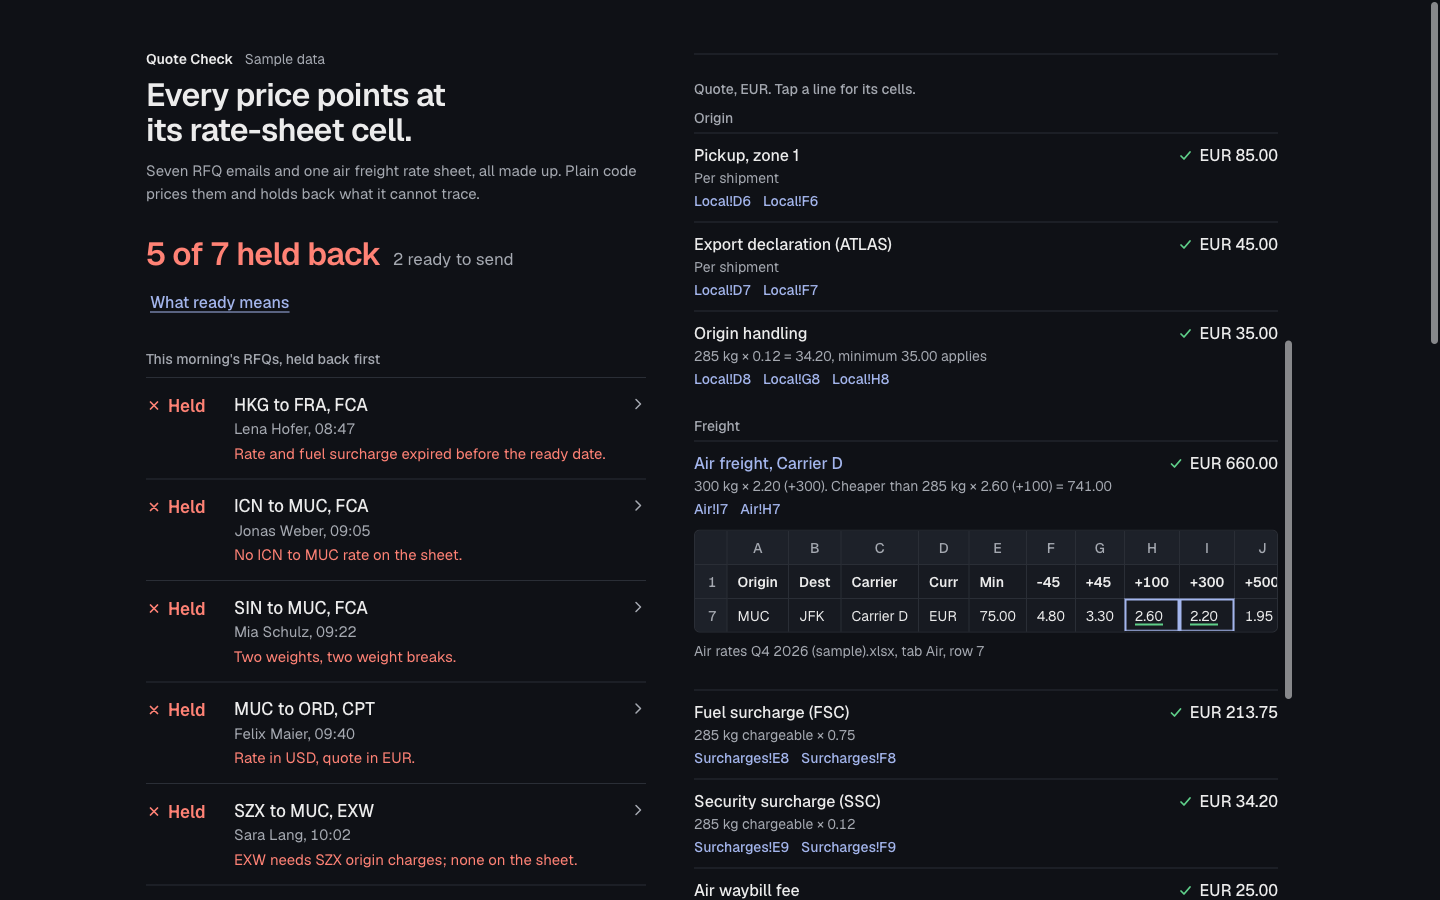
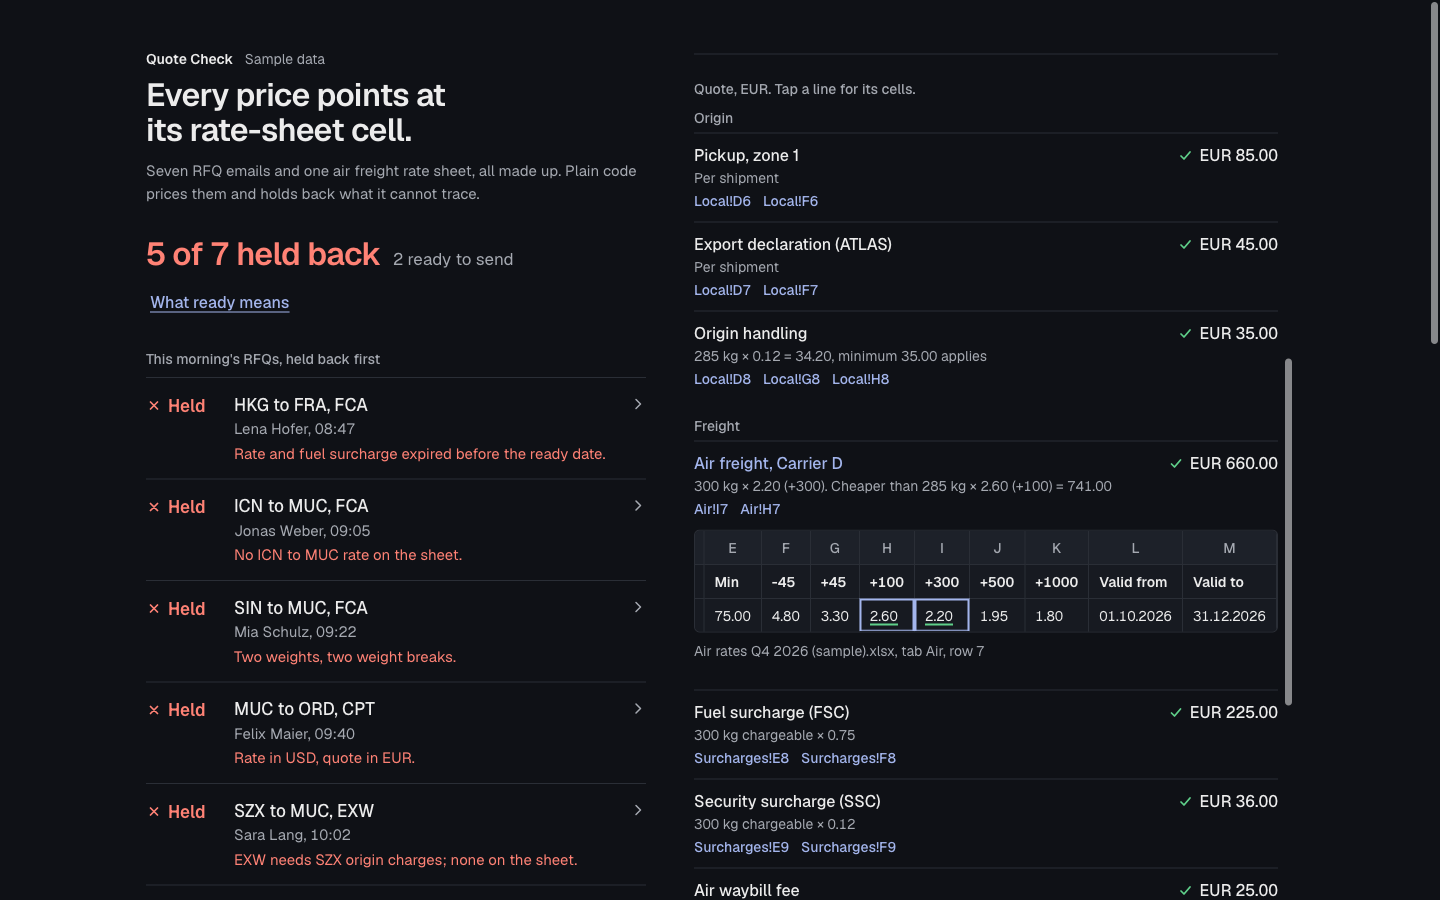
Charge surcharges on the break weight, FCA origin handling on the buyer, phone cell view, wording fixes

Changed region(s): [[0.5, 0.6222, 0.875, 0.7156], [0.875, 0.7778, 0.9062, 0.8089], [0.875, 0.3733, 0.9062, 0.4044]]

diff --git a/quote.js b/quote.js
@@ -26,7 +26,7 @@ const SEA_ONLY = ["FAS", "FOB", "CFR", "CIF"];
 const NEEDS = {
   buyer: {
     EXW: ["O:PUP", "O:ECC", "O:OHC", "FRT", "D:DHC", "D:ICC"],
-    FCA: ["FRT", "D:DHC", "D:ICC"],
+    FCA: ["O:OHC", "FRT", "D:DHC", "D:ICC"],
     CPT: ["D:DHC", "D:ICC"],
     CIP: ["D:DHC", "D:ICC"],
     DAP: ["D:ICC"],
@@ -69,20 +69,27 @@ export function chargeable(grossKg, volKg) {
 }
 
 /** The weight break for a chargeable weight, then the cheaper of that and any higher break charged at its threshold. */
-export function priceFreight(sh, row, kg) {
+export function priceFreight(sh, row, kg, perKg = 0) {
   const air = sh.tabs.Air;
   const rate = (b) => cents(air[row][b.col]);
   let at = BREAKS[0];
   for (const b of BREAKS) if (kg >= b.from) at = b;
   const base = { brk: at, kg, rate: rate(at), amount: Math.round(rate(at) * kg) };
   let best = base;
+  // A higher break raises the chargeable weight, so surcharges charged on chargeable weight (perKg) rise with it.
+  const allIn = (x) => x.amount + Math.round(perKg * x.kg);
   for (const b of BREAKS) {
     if (b.from <= at.from) continue;
-    const amount = Math.round(rate(b) * b.from);
-    if (amount < best.amount) best = { brk: b, kg: b.from, rate: rate(b), amount };
+    const next = { brk: b, kg: b.from, rate: rate(b), amount: Math.round(rate(b) * b.from) };
+    if (allIn(next) < allIn(best)) best = next;
   }
   const min = cents(air[row][4]);
   return { base, best, min, usesMin: best.amount < min, amount: Math.max(best.amount, min) };
+}
+
+/** The carrier's per-kg surcharges that are charged on chargeable weight, in cents. */
+export function followsKg(sh, carrier) {
+  return sh.tabs.Surcharges.reduce((sum, x, i) => (i > 0 && x[0] === carrier && x[5] !== "Gross" ? sum + cents(x[4]) : sum), 0);
 }
 
 function localRow(sh, station, side, code, postcode) {
@@ -191,7 +198,7 @@ export function quoteRfq(rfq, sh) {
 
   let needs = [];
   if (term && SEA_ONLY.includes(term)) {
-    hold("incoterm", `${term} is a sea and inland waterway rule in Incoterms 2020. For air freight the matching rule is usually FCA${term === "CIF" ? " or CIP" : term === "CFR" ? " or CPT" : ""}. Ask which one is meant.`);
+    hold("incoterm", `${term} is a sea and inland waterway rule in Incoterms 2020. For air freight the matching rule is ${{ FAS: "FCA", FOB: "FCA", CFR: "CPT", CIF: "CIP" }[term]}. Ask which one is meant.`);
   } else if (term && origin && dest && !role) {
     hold("incoterm", `Neither or both airports are in ${home} (Terms!B5), so the sheet cannot tell whether the customer is the buyer or the seller.`, homeCell ? [homeCell] : []);
   } else if (term && role) {
@@ -215,8 +222,11 @@ export function quoteRfq(rfq, sh) {
       const row = air[airRow];
       const carrier = row[2];
       const c = (col) => cellAt(sh, "Air", airRow, col);
+      let chargedKg = kg;
       if (kg != null) {
-        const p = priceFreight(sh, airRow, kg);
+        const p = priceFreight(sh, airRow, kg, followsKg(sh, carrier));
+        chargedKg = p.best.kg;
+        if (chargedKg !== kg) weight.chargedKg = chargedKg;
         const cells = [c(p.best.brk.col)];
         let calc = `${kgFmt(kg)} kg × ${fmt(p.best.rate)} (${p.best.brk.label})`;
         if (p.best !== p.base) {
@@ -249,7 +259,7 @@ export function quoteRfq(rfq, sh) {
         const s = sur[r];
         const sc = (col) => cellAt(sh, "Surcharges", r, col);
         const onGross = s[5] === "Gross";
-        const baseKg = onGross ? (grossList.length === 1 ? grossList[0] : null) : kg;
+        const baseKg = onGross ? (grossList.length === 1 ? grossList[0] : null) : chargedKg;
         const line = { side: "Freight", code, label: `${s[2]} (${code})`, currency: s[3], curCell: sc(3), cells: [sc(4), sc(5)], state: "pass" };
         if (baseKg == null) Object.assign(line, { calc: "", amount: null, state: "none", note: "Waits for one weight" });
         else Object.assign(line, { calc: `${kgFmt(baseKg)} kg ${onGross ? "gross" : "chargeable"} × ${s[4]}`, amount: Math.round(cents(s[4]) * baseKg) });
@@ -313,7 +323,7 @@ export function quoteRfq(rfq, sh) {
   // One weight, one break.
   if (weightBlocked && needs.includes("FRT") && airRow != null) {
     const parts = options.map((o) => {
-      const p = priceFreight(sh, airRow, o.chargeKg);
+      const p = priceFreight(sh, airRow, o.chargeKg, followsKg(sh, air[airRow][2]));
       return { o, p };
     });
     const brks = [...new Set(parts.map((x) => x.p.best.brk.label))];

diff --git a/app.js b/app.js
@@ -123,6 +123,7 @@ function weightBlock(q) {
   if (w.chargeKg != null) {
     const note = w.wins === "volume" ? "volumetric is higher" : w.wins === "gross" ? "gross is higher" : "the higher of the two";
     line("Chargeable weight", `${kgFmt(w.chargeKg)} kg, ${note}, rounded up to the next 0.5 kg`, "strong");
+    if (w.chargedKg) line("Charged as", `${kgFmt(w.chargedKg)} kg chargeable, the next weight break, because it costs less`, "strong");
   } else if (w.gross.length > 1) line("Chargeable weight", "Not settled: the email gives more than one weight", "nf");
   return box;
 }
@@ -159,6 +160,10 @@ function quoteTable(q) {
             const g = miniGrid(l.cells);
             g.classList.add("enter");
             item.append(g);
+            for (const sc of g.querySelectorAll(".grid-scroll")) {
+              const hit = sc.querySelector("td.hit");
+              if (hit) sc.scrollLeft = Math.max(0, hit.offsetLeft - 56);
+            }
             requestAnimationFrame(() => requestAnimationFrame(() => g.classList.add("drawn")));
           }
         });
@@ -198,7 +203,7 @@ function draftReply(q) {
   const lines = q.lines.map((l) => `${l.label}: ${l.currency} ${fmt(l.amount)}`);
   return `${first ? `Hi ${first}` : "Hello"},
 
-thanks for your request. Our offer for ${q.origin} to ${q.dest}, ${q.term}, ${kgFmt(q.weight.chargeKg)} kg chargeable:
+thanks for your request. Our offer for ${q.origin} to ${q.dest}, ${q.term}, ${kgFmt(q.weight.chargedKg || q.weight.chargeKg)} kg chargeable${q.weight.chargedKg ? ` (${kgFmt(q.weight.chargeKg)} kg charged at the next weight break, which costs less)` : ""}:
 
 ${lines.join("\n")}
 Total: ${q.currency} ${fmt(q.total)}
@@ -347,7 +352,7 @@ function render(list, { fresh = false, focusId = null } = {}) {
     const val = el("span", "val");
     const lane = q.origin && q.dest ? `${q.origin} to ${q.dest}` : "Lane not found";
     val.append(el("b", null, `${lane}${q.term ? `, ${q.term}` : ""}`), `${q.rfq.from.split(",")[0]}, ${q.rfq.time}`);
-    if (q.ready) val.append(el("span", "meta", `${q.currency} ${fmt(q.total)}, ${kgFmt(q.weight.chargeKg)} kg chargeable`));
+    if (q.ready) val.append(el("span", "meta", `${q.currency} ${fmt(q.total)}, ${kgFmt(q.weight.chargeKg)} kg ${q.weight.chargedKg ? `charged as ${kgFmt(q.weight.chargedKg)} kg` : "chargeable"}`));
     else val.append(el("span", "meta st-fail", shortReason(q)));
     return rowItem(`r-${q.rfq.id}-${i}`, [st, val], () => detail(q));
   }));
@@ -359,7 +364,7 @@ function render(list, { fresh = false, focusId = null } = {}) {
   let k = 0;
   if (focusId) k = Math.max(0, order.findIndex((i) => list[i].id === focusId));
   const li = rows.children[k];
-  if (li) {
+  if (li && (wide.matches || focusId)) {
     show(li._entry, false);
     if (focusId) li.scrollIntoView({ block: "start", behavior: calm() ? "auto" : "smooth" });
   }

diff --git a/quote.test.js b/quote.test.js
@@ -27,7 +27,7 @@ test("volumetric weight: 6 x 80 x 60 x 75 cm / 6000 = 360 kg beats 312 kg gross"
   assert.equal(w.volKg, 360);
   assert.equal(w.chargeKg, 360);
   assert.equal(w.wins, "volume");
-  assert.equal(fmt(res.garching.total), "1,506.20");
+  assert.equal(fmt(res.garching.total), "1,542.20");
 });
 
 test("every line on a ready quote points at sheet cells", () => {
@@ -50,7 +50,10 @@ test("a lower charge at a higher weight break is used, and both cells are shown"
   assert.equal(res.aschheim.weight.chargeKg, 285);
   const ohc = res.aschheim.lines.find((l) => l.code === "OHC");
   assert.equal(ohc.amount, 3500); // 285 x 0.12 = 34.20, minimum 35.00
-  assert.equal(fmt(res.aschheim.total), "1,097.95");
+  assert.equal(res.aschheim.weight.chargedKg, 300);
+  const fsc = res.aschheim.lines.find((l) => l.code === "FSC");
+  assert.equal(fsc.amount, 22500); // fuel follows the chargeable weight: 300 kg x 0.75
+  assert.equal(fmt(res.aschheim.total), "1,111.00");
 });
 
 test("an expired rate and an expired fuel surcharge are both named with their cells", () => {
@@ -144,4 +147,16 @@ test("every field read from the email points at its exact text", () => {
     const spans = [f.ready, f.currency, f.door, f.pickup, f.volume, ...f.pieces, ...f.weights, ...(f.incoterm?.marks || []), ...(f.lane.origin?.marks || []), ...(f.lane.dest?.marks || [])].filter(Boolean);
     for (const s of spans) assert.equal(f.text.slice(s.index, s.index + s.text.length), s.text, `${r.id}: ${s.text}`);
   }
+});
+
+test("FCA puts origin handling at the departure airport on the buyer", () => {
+  const ohc = res.garching.lines.find((l) => l.code === "OHC");
+  assert.equal(ohc.side, "Origin");
+  assert.equal(ohc.amount, 3600); // 360 kg x 0.10
+  assert.deepEqual(ohc.cells.map((c) => c.ref), ["Local!D5", "Local!G5"]);
+});
+
+test("the sea-only hint names the matching any-mode rule", () => {
+  const q = quoteRfq(rfq("RFQ PVG-MUC", "CIF Munich, from Shanghai, 2 cartons 50x50x50 cm, 60 kg, ready 20 Nov"), sheet);
+  assert.match(q.holds.map((h) => h.text).join(" "), /the matching rule is CIP\./);
 });

diff --git a/sheet.js b/sheet.js
@@ -32,8 +32,8 @@ export const sheet = {
       ["Carrier C", "SSC", "Security surcharge", "EUR", "0.15", "Gross", "01.08.2026", "31.12.2026"],
       ["Carrier D", "FSC", "Fuel surcharge", "EUR", "0.75", "Chargeable", "01.11.2026", "30.11.2026"],
       ["Carrier D", "SSC", "Security surcharge", "EUR", "0.12", "Chargeable", "01.10.2026", "31.12.2026"],
-      ["Carrier E", "FSC", "Fuel surcharge", "EUR", "0.80", "Chargeable", "01.11.2026", "30.11.2026"],
-      ["Carrier E", "SSC", "Security surcharge", "EUR", "0.15", "Chargeable", "01.10.2026", "31.12.2026"],
+      ["Carrier E", "FSC", "Fuel surcharge", "EUR", "0.80", "Gross", "01.11.2026", "30.11.2026"],
+      ["Carrier E", "SSC", "Security surcharge", "EUR", "0.15", "Gross", "01.10.2026", "31.12.2026"],
     ],
     Local: [
       ["Station", "Side", "Code", "Charge", "Curr", "Per shipment", "Per kg", "Min", "PLZ"],
@@ -49,6 +49,9 @@ export const sheet = {
       ["MUC", "Destination", "DEL", "Delivery, zone 1", "EUR", "95.00", "", "", "80, 81, 85"],
       ["FRA", "Destination", "DHC", "Destination handling", "EUR", "", "0.11", "35.00", ""],
       ["FRA", "Destination", "ICC", "Import customs clearance", "EUR", "65.00", "", "", ""],
+      ["HKG", "Origin", "OHC", "Origin handling", "EUR", "", "0.10", "30.00", ""],
+      ["SIN", "Origin", "OHC", "Origin handling", "EUR", "", "0.10", "30.00", ""],
+      ["ICN", "Origin", "OHC", "Origin handling", "EUR", "", "0.10", "30.00", ""],
     ],
   },
 };

diff --git a/index.html b/index.html
@@ -32,7 +32,7 @@
       <button type="button" class="btn text why-btn" id="why-btn" aria-expanded="false" aria-controls="chain">What ready means</button>
       <div class="why-text" id="chain" hidden>
         <p>Ready means the lane, every surcharge and every charge the Incoterm puts on the customer is on the sheet, valid on the cargo ready date, in the quote currency, and the email gives one weight. Anything else is held back with the reason and the cells.</p>
-        <p>Chargeable weight is the higher of gross weight and volume ÷ 6,000 cm³ per kg, rounded up to the next 0.5 kg. When a higher weight break gives a lower charge, that one is used and both cells are shown.</p>
+        <p>Chargeable weight is the higher of gross weight and volume ÷ 6,000 cm³ per kg, rounded up to the next 0.5 kg. When the next weight break gives a lower charge, that one is used and both cells are shown. The chargeable weight is then the break's weight, and surcharges on chargeable weight follow it.</p>
       </div>
       <div id="groups" class="groups"></div>
     </section>

diff --git a/rfqs.js b/rfqs.js
@@ -52,7 +52,7 @@ could you send rates for 2 pallets from Hong Kong to Frankfurt, FCA HKG.
 2 pallets 120x100x120 cm, total 640 kg.
 Cargo ready 20.11.
 
-We clear and collect at FRA ourselves, so destination handling and customs only please.
+We collect at FRA ourselves, so destination handling and customs clearance only please, no delivery.
 
 Regards, Lena`,
   },
@@ -81,7 +81,7 @@ Jonas`,
     body: `Hi,
 
 FCA Singapore, to Munich airport.
-3 cartons 60x50x50 cm, approx. 230-260 kg, final weight after packing.
+3 crates 60x50x50 cm, approx. 230-260 kg, final weight after packing.
 Ready 24 Nov.
 
 Please quote incl. import customs.

diff --git a/style.css b/style.css
@@ -205,7 +205,7 @@ textarea:focus-visible { outline: none; border-color: var(--accent); }
 a { color: var(--accent); text-underline-offset: 3px; text-decoration-thickness: 1px; }
 .foot { margin-top: var(--s7); padding-top: var(--s4); border-top: 1px solid var(--line); font-size: 14px; color: var(--muted); }
 .foot p { margin: 0 0 var(--s2); max-width: 40em; }
-.foot a { display: inline-block; padding: 11px 0; }
+.foot a { display: inline-block; padding: 12px 0; }
 
 /* Desktop: the inbox left, the quote pinned right */
 .evidence-col { display: none; }

diff --git a/README.md b/README.md
@@ -7,9 +7,9 @@ The sample has seven made-up RFQs and one made-up rate sheet (five carriers, Q4 
 ## What it shows
 
 - **Chargeable weight, with the formula.** Volume is length × width × height × pieces in cm³. Volumetric weight is volume ÷ 6,000, with the divisor read from the sheet (`Terms!B3`). Chargeable weight is the higher of gross and volumetric, rounded up to the next 0.5 kg.
-- **The weight break, then the cheaper higher break.** The rate comes from the break the chargeable weight falls in (-45, +45, +100, +300, +500, +1000). If a higher break charged at its threshold weight costs less, that is used, and both cells are shown. Example: 285 kg at +100 (2.60) is 741.00; 300 kg at +300 (2.20) is 660.00, so the quote uses 660.00.
+- **The weight break, then the cheaper higher break.** The rate comes from the break the chargeable weight falls in (-45, +45, +100, +300, +500, +1000). If a higher break charged at its threshold weight costs less, that is used, the chargeable weight becomes that threshold, and both cells are shown. Example: 285 kg at +100 (2.60) is 741.00; 300 kg at +300 (2.20) is 660.00, so the quote charges 300 kg. Surcharges the sheet puts on chargeable weight are then charged on 300 kg too, and the comparison includes them.
 - **Surcharges on the basis the sheet states.** Fuel (FSC) and security (SSC) surcharges are per kg on chargeable or gross weight, as the Surcharges tab says for each carrier.
-- **Incoterm charges.** The forwarder is in Germany (`Terms!B5`). When the destination is in Germany the customer is the buyer; when the origin is, the customer is the seller. The Incoterms 2020 rule then decides which origin, freight and destination charges go on the quote.
+- **Incoterm charges.** The forwarder is in Germany (`Terms!B5`). When the destination is in Germany the customer is the buyer; when the origin is, the customer is the seller. The Incoterms 2020 rule then decides which origin, freight and destination charges go on the quote. FCA is read as FCA at the origin airport: the seller pays for getting the goods there and for export clearance, and the buyer pays origin handling, freight and the destination charges.
 - **Every line links back.** Tap a line and the sheet row opens with the cells outlined. Anything the email does not say is "not found". Nothing is guessed, converted or borrowed from another lane.
 
 ## The checks
@@ -44,10 +44,11 @@ Checked on 13 Nov 2026.
 - Volume ÷ 6,000 cm³ per kg, and the higher of volumetric and actual weight is charged: IATA Knowledge Hub, "Air Cargo Tariffs and Rules: What You Need to Know" (27 Jul 2021), https://www.iata.org/en/publications/newsletters/iata-knowledge-hub/air-cargo-tariffs-and-rules-what-you-need-to-know
 - The same divisor from a German forwarder ("In der Luftfracht werden 6.000 cm³ einem Kilogramm gleichgesetzt"), and the sea freight ratio of 1 cbm = 1 t: DSV, "Volumengewicht berechnen", https://www.dsv.com/de-de/hilfe/faq/volumengewichtsrechner
 - Rounding up to the next half kilogram: time:matters glossary, https://www.time-matters.com/emergency-logistics-glossary/chargeable-weight/ and MOL Logistics weight calculator, https://www.mol-logistics.com/weight-calculator/ . Both are secondary sources; the IATA TACT Rules are paid and were not checked. Some carriers round differently.
+- The same rounding, and the chargeable weight becoming the break's minimum weight when the higher break gives the lower charge ("Chargeable weight = 1000 kg" for a 995 kg shipment): ASEAN training deck on the TACT rules, "Chapter 5: Calculation of Air Freight", slides 19 and 69 to 72, https://asean.org/wp-content/uploads/2023/02/Air-Freight-C5.-Calculation-of-Air-Freight-PPT-Trainer-V2.pdf
 - Weight breaks (+45, +100, +300, +500, +1000) and quoting at the next break when it is cheaper: CargoLinked, "How Air Freight Pricing Works" (13 May 2026), https://cargolinked.com/guides/how-air-freight-pricing-works-chargeable-weight
 - Fuel and security surcharges per kg on chargeable or gross weight, depending on the airline: FreightWaves, "How is Air Freight Priced?" (2 Jan 2020), https://www.freightwaves.com/news/how-is-air-freight-priced
 - FAS, FOB, CFR and CIF are for sea and inland waterway transport: US International Trade Administration, "Know Your Incoterms", https://www.trade.gov/know-your-incoterms
-- EXW puts export formalities on the buyer; FCA puts export clearance on the seller: ICC Academy, https://academy.iccwbo.org/incoterms/article/incoterms-2020-exw-or-fca/
+- EXW puts export formalities on the buyer; FCA puts export clearance on the seller, and costs after the handover on the buyer: ICC Academy, https://academy.iccwbo.org/incoterms/article/incoterms-2020-exw-or-fca/
 - CIP needs insurance under Institute Cargo Clauses (A) for at least 110% of the contract value, unless agreed otherwise: ICC Academy, https://academy.iccwbo.org/incoterms/article/incoterms-2020-cpt-or-cip/
 
 Express couriers often use 5,000 instead of 6,000. Change `Terms!B3` and the volumetric weight follows (there is a test for it).
@@ -58,7 +59,7 @@ Express couriers often use 5,000 instead of 6,000. Change `Terms!B3` and the vol
 node --test
 ```
 
-Needs Node 20 or later. No dependencies. 18 tests cover the sample results, the weight maths, the cheaper higher break, each hold, the "not found" rule, rounding, number formats (`1.250 kg` is 1,250 kg) and that every underlined value sits at its exact place in the email.
+Needs Node 20 or later. No dependencies. 20 tests cover the sample results, the weight maths, the cheaper higher break, each hold, the "not found" rule, rounding, number formats (`1.250 kg` is 1,250 kg) and that every underlined value sits at its exact place in the email.
 
 ## Open the page locally
 
@@ -74,7 +75,11 @@ Then open http://localhost:8785. The page makes no network calls beyond its own 
 - Who the customer is comes from the home country on the sheet. Cross-trade (neither airport in Germany) is held.
 - Pieces need a count and dimensions in cm. Inches, per-piece weights and stackability are not read.
 - Local charges have no validity dates in the sample, and delivery and pickup zones are by the first two digits of a German postcode.
-- Surcharges use the chargeable weight even when the freight is charged at a higher break, as the sheet says. Some carriers do it differently.
+- Local per-kg charges use the chargeable weight before any higher break. A real tariff says which weight applies.
+- Rate validity is checked against the cargo ready date. Carriers usually apply the rate and surcharge of the flight date, which comes later.
+- The named place after the Incoterm is not read. FCA is taken as the origin airport and CPT and CIP as the destination airport. Under FCA many shippers pay origin handling in practice; the demo follows the ICC wording and puts it on the buyer.
+- A ready date with no year takes the year of the email.
+- The USD rate out of Munich is there to show the currency check. Rates are normally in the currency of the country of departure.
 - The reply draft is plain text. Nothing is sent.
 
 ## Design
